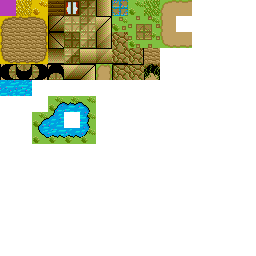
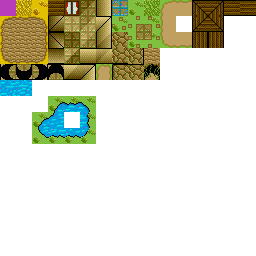
Une belle maison <3

Changed region(s): [[0.75, 0.0, 1.0, 0.1875]]

diff --git a/Scene_house.py b/Scene_house.py
@@ -1,0 +1,78 @@
+import Entities_Tile as Tile
+import Utils_Position as Position
+import Utils_Scene as Scene
+
+def createSceneHouse(tileTexture, assetTexture):
+    scene2 = Scene.Scene()
+
+    tilemap = [
+        12,  14,  4,  14,  14,  14,  14,  4,  14,  13,
+        44,  20,  20,  20,  20,  20,  20,  20,  20,  45,
+        44,  20,  20,  20,  20,  20,  20,  20,  20,  45,
+        44,  20,  20,  20,  20,  20,  20,  20,  20,  45,
+        44,  20,  20,  20,  20,  20,  20,  20,  20,  45,
+        44,  20,  20,  20,  20,  20,  20,  20,  20,  45,
+        44,  20,  20,  20,  20,  20,  20,  20,  20,  45,
+        44,  20,  20,  20,  20,  20,  20,  20,  20,  45,
+        28,  15,  15,  15,  15,  15,  15,  15,  15,  29,
+    ]
+    tileCollider = [
+        1, 1,  1, 1, 1, 1, 1, 1, 1, 1,
+        1, 0,  0, 0, 0, 0, 0, 0, 0, 1,
+        1, 0,  0, 0, 0, 0, 0, 0, 0, 1,
+        1, 0,  0, 0, 0, 0, 0, 0, 0, 1,
+        1, 0,  0, 0, 0, 0, 0, 0, 0, 1,
+        1, 0,  0, 0, 0, 0, 0, 0, 0, 1,
+        1, 0,  0, 0, 0, 0, 0, 0, 0, 1,
+        1, 0,  0, 0, 0, 0, 0, 0, 0, 1,
+        1, 1,  1, 0, 0, 0, 1, 1, 1, 1,
+    ]
+    tiles = []
+    for i in range(0, len(tilemap)):
+        if tilemap[i] != 0:
+            tile = Tile.Tile(tileTexture)
+            tile.position = Position.Position(i % 10 * 16, int(i / 10) * 16)
+            tile.texPos = Position.Position(tilemap[i] % 16 * 16, int(tilemap[i] / 16) * 16)
+            if tileCollider[i] == 1:
+                tile.collider = True
+            tiles.append(tile)
+
+    assetmap = [
+        0,  0,  0,  0,  0,  0,  0,  0,  0,  0,
+        0,  0,  0,  0,  0,  0,  0,  0,  0,  0,
+        0,  0,  0,  0,  0,  0,  0,  0,  0,  0,
+        0,  0,  0,  0,  0,  0,  0,  0,  0,  0,
+        0,  0,  0,  0,  0,  0,  0,  0,  0,  0,
+        0,  0,  0,  0,  0,  0,  0,  0,  0,  0,
+        0,  0,  0,  0,  0,  0,  0,  0,  0,  0,
+        0,  0,  0,  0,  0,  0,  0,  0,  0,  0,
+        0,  0,  0,  0,  35,  0,  0,  0,  0,  0,
+    ]
+    assetCollider = [
+        0, 0, 0, 0, 0, 0, 0, 0, 0, 0,
+        0, 0, 0, 0, 0, 0, 0, 0, 0, 0,
+        0, 0, 0, 0, 0, 0, 0, 0, 0, 0,
+        0, 0, 0, 0, 0, 0, 0, 0, 0, 0,
+        0, 0, 0, 0, 0, 0, 0, 0, 0, 0,
+        0, 0, 0, 0, 0, 0, 0, 0, 0, 0,
+        0, 0, 0, 0, 0, 0, 0, 0, 0, 0,
+        0, 0, 0, 0, 0, 0, 0, 0, 0, 0,
+        0, 0, 0, 0, 0, 0, 0, 0, 0, 0,
+    ]
+    assets = []
+    for i in range(0, len(assetmap)):
+        if assetmap[i] != 0:
+            asset = Tile.Tile(assetTexture)
+            asset.position = Position.Position(i % 10 * 16, int(i / 10) * 16)
+            asset.texPos = Position.Position(assetmap[i] % 16 * 16, int(assetmap[i] / 16) * 16)
+            if assetCollider[i] == 1:
+                asset.collider = True
+            assets.append(asset)
+
+    plantes = []
+
+    scene2.tiles = tiles
+    scene2.assets = assets
+    scene2.plantes = plantes
+
+    return scene2

diff --git a/Main.py b/Main.py
@@ -11,6 +11,7 @@ import Scripts_Plantations as Plantations
 
 import Scene_1 as Scene1
 import Scene_2 as Scene2
+import Scene_house as SceneHouse
 
 import Utils_Position as Position
 import Utils_Time as Time
@@ -34,13 +35,19 @@ debugTexture = pygame.image.load("res/Debug.png").convert_alpha()
 # entities
 scenes = []
 scene1 = Scene1.createScene1(tileTexture, assetTexture)
-scene1.state = True
+scene1.state = False
 scenes.append(scene1)
 scene2 = Scene2.createScene2(tileTexture, assetTexture)
 scene2.state = False
 scenes.append(scene2)
 
+scenehouse = SceneHouse.createSceneHouse(tileTexture, assetTexture)
+scenehouse.state = True
+scenes.append(scenehouse)
+
 player = Player.Player(playerTexture)
+player.position.x = 64
+player.position.y = 64
 
 # scripts
 input = Input.Input()
